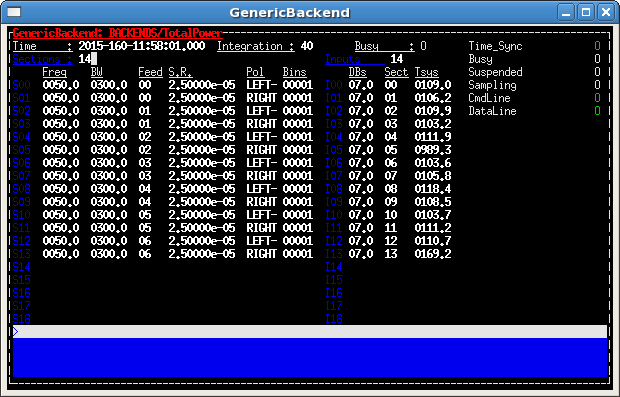
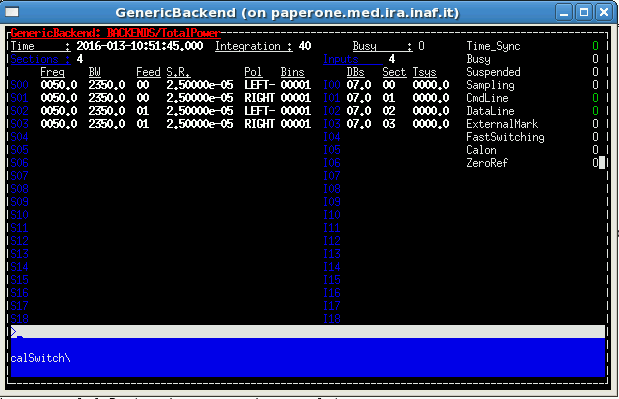
More additions for Nuraghe 0.6 release
Changed the GenericBackendTUI image, correction of typos in Release
Notes.

Changed region(s): [[0.0, 0.0, 1.0, 1.0]]

diff --git a/user/srt/source/Appendix_A.rst b/user/srt/source/Appendix_A.rst
@@ -285,6 +285,21 @@ When observing with the TPB, look for:
   * **Busy**: when schedules are running, it must turn yellow. 
     If it does not, the backend is not acquiring.
 
+With Nuraghe 0.6, an additional set of keywords was inserted: 
+
+  * **ExternalMark**: it turns yellow when the external mark control is enabled
+  
+  * **FastSwitching**: it turns yellow when the total power is sampling with 
+    the mark swicthing under its direct control. Note: only when the sampling 
+    is active.
+    
+  * **Calon**: it turns yellow when the noise mark is on (non-fast mode) 
+    under the control of the Backend. This is not implemented yet. 	
+      
+  * **ZeroRef**: it turns yellow when the backend inputs are connected to the 
+    500hm. It may be yellow during a system temperature measurement.
+
+
 To close the monitor, type ``exit`` in its prompt (the grey line). 
 
 
